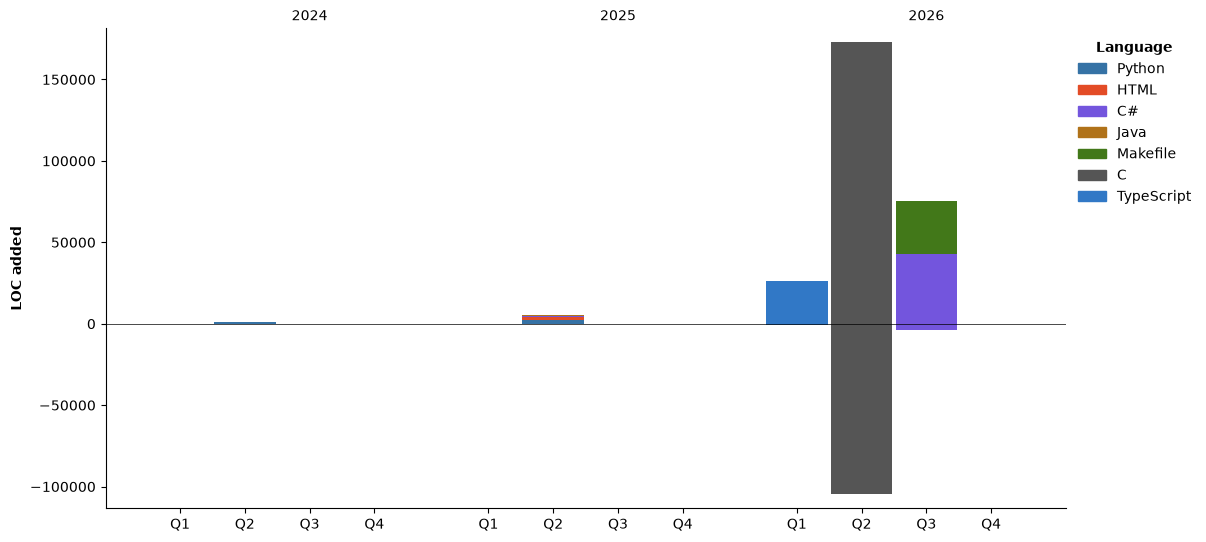
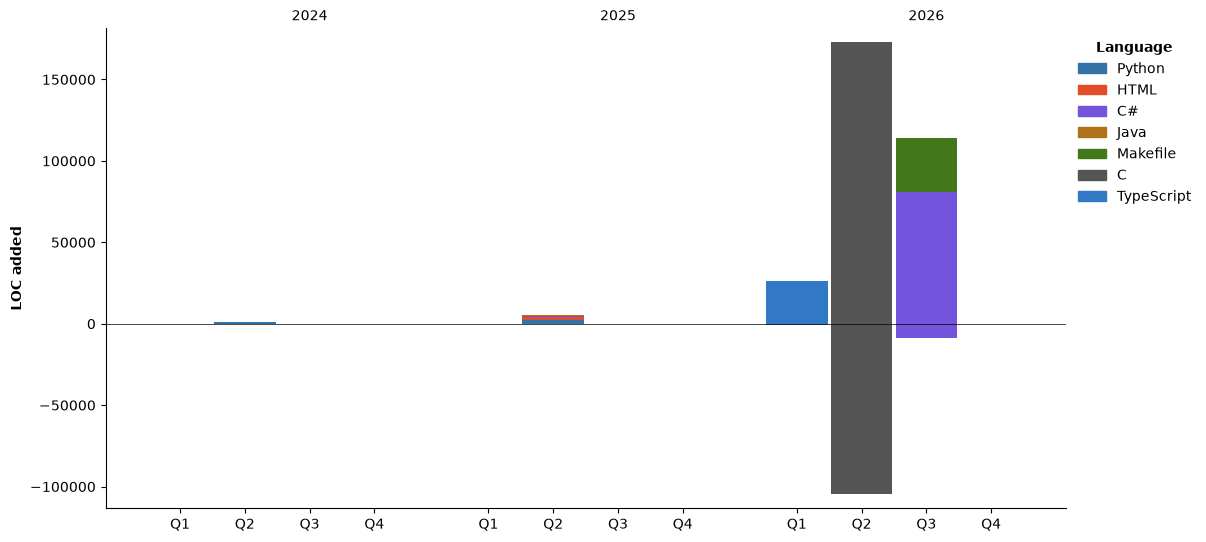
Updated with Dev Metrics

Changed region(s): [[0.7363, 0.2362, 0.7977, 0.4723], [0.7363, 0.5904, 0.7977, 0.6494]]

diff --git a/README.md b/README.md
@@ -14,13 +14,13 @@
 
 ### 🌌 WakaTime Session (Time in IDE)
 <!--START_SECTION:waka-->
-![Lines of code](https://img.shields.io/badge/From%20Hello%20World%20I%27ve%20Written-281.04%20thousand%20lines%20of%20code-blue?style=flat)
+![Lines of code](https://img.shields.io/badge/From%20Hello%20World%20I%27ve%20Written-319.26%20thousand%20lines%20of%20code-blue?style=flat)
 
 **🐱 My GitHub Data** 
 
-> 📦 21.4 kB Used in GitHub's Storage 
+> 📦 21.5 kB Used in GitHub's Storage 
  > 
-> 🏆 157 Contributions in the Year 2026
+> 🏆 168 Contributions in the Year 2026
  > 
 > 🚫 Not Opted to Hire
  > 
@@ -31,19 +31,19 @@
 **I'm an Early 🐤** 
 
 ```text
-🌞 Morning                122 commits         ⬛⬛⬛⬛⬛⬛⬛⬛⬛⬛⬛⬛⬜⬜⬜⬜⬜⬜⬜⬜⬜⬜⬜⬜⬜   48.22 % 
-🌆 Daytime                111 commits         ⬛⬛⬛⬛⬛⬛⬛⬛⬛⬛⬛⬜⬜⬜⬜⬜⬜⬜⬜⬜⬜⬜⬜⬜⬜   43.87 % 
-🌃 Evening                20 commits          ⬛⬛⬜⬜⬜⬜⬜⬜⬜⬜⬜⬜⬜⬜⬜⬜⬜⬜⬜⬜⬜⬜⬜⬜⬜   07.91 % 
+🌞 Morning                171 commits         ⬛⬛⬛⬛⬛⬛⬛⬛⬛⬛⬛⬛⬛⬜⬜⬜⬜⬜⬜⬜⬜⬜⬜⬜⬜   51.51 % 
+🌆 Daytime                129 commits         ⬛⬛⬛⬛⬛⬛⬛⬛⬛⬛⬜⬜⬜⬜⬜⬜⬜⬜⬜⬜⬜⬜⬜⬜⬜   38.86 % 
+🌃 Evening                32 commits          ⬛⬛⬜⬜⬜⬜⬜⬜⬜⬜⬜⬜⬜⬜⬜⬜⬜⬜⬜⬜⬜⬜⬜⬜⬜   09.64 % 
 🌙 Night                  0 commits           ⬜⬜⬜⬜⬜⬜⬜⬜⬜⬜⬜⬜⬜⬜⬜⬜⬜⬜⬜⬜⬜⬜⬜⬜⬜   00.00 % 
 ```
-📅 **I'm Most Productive on Monday** 
+📅 **I'm Most Productive on Wednesday** 
 
 ```text
-Monday                   76 commits          ⬛⬛⬛⬛⬛⬛⬛⬛⬜⬜⬜⬜⬜⬜⬜⬜⬜⬜⬜⬜⬜⬜⬜⬜⬜   30.04 % 
-Tuesday                  35 commits          ⬛⬛⬛⬜⬜⬜⬜⬜⬜⬜⬜⬜⬜⬜⬜⬜⬜⬜⬜⬜⬜⬜⬜⬜⬜   13.83 % 
-Wednesday                76 commits          ⬛⬛⬛⬛⬛⬛⬛⬛⬜⬜⬜⬜⬜⬜⬜⬜⬜⬜⬜⬜⬜⬜⬜⬜⬜   30.04 % 
-Thursday                 32 commits          ⬛⬛⬛⬜⬜⬜⬜⬜⬜⬜⬜⬜⬜⬜⬜⬜⬜⬜⬜⬜⬜⬜⬜⬜⬜   12.65 % 
-Friday                   34 commits          ⬛⬛⬛⬜⬜⬜⬜⬜⬜⬜⬜⬜⬜⬜⬜⬜⬜⬜⬜⬜⬜⬜⬜⬜⬜   13.44 % 
+Monday                   76 commits          ⬛⬛⬛⬛⬛⬛⬜⬜⬜⬜⬜⬜⬜⬜⬜⬜⬜⬜⬜⬜⬜⬜⬜⬜⬜   22.89 % 
+Tuesday                  46 commits          ⬛⬛⬛⬜⬜⬜⬜⬜⬜⬜⬜⬜⬜⬜⬜⬜⬜⬜⬜⬜⬜⬜⬜⬜⬜   13.86 % 
+Wednesday                107 commits         ⬛⬛⬛⬛⬛⬛⬛⬛⬜⬜⬜⬜⬜⬜⬜⬜⬜⬜⬜⬜⬜⬜⬜⬜⬜   32.23 % 
+Thursday                 69 commits          ⬛⬛⬛⬛⬛⬜⬜⬜⬜⬜⬜⬜⬜⬜⬜⬜⬜⬜⬜⬜⬜⬜⬜⬜⬜   20.78 % 
+Friday                   34 commits          ⬛⬛⬛⬜⬜⬜⬜⬜⬜⬜⬜⬜⬜⬜⬜⬜⬜⬜⬜⬜⬜⬜⬜⬜⬜   10.24 % 
 Saturday                 0 commits           ⬜⬜⬜⬜⬜⬜⬜⬜⬜⬜⬜⬜⬜⬜⬜⬜⬜⬜⬜⬜⬜⬜⬜⬜⬜   00.00 % 
 Sunday                   0 commits           ⬜⬜⬜⬜⬜⬜⬜⬜⬜⬜⬜⬜⬜⬜⬜⬜⬜⬜⬜⬜⬜⬜⬜⬜⬜   00.00 % 
 ```
@@ -69,7 +69,7 @@ No Activity Tracked This Week
 ![Lines of Code chart](https://raw.githubusercontent.com/stckwzrd/stckwzrd/main/assets/bar_graph.png)
 
 
- Last Updated on 13/08/2026 01:28:49 UTC
+ Last Updated on 14/08/2026 01:27:47 UTC
 <!--END_SECTION:waka-->
 ---
 
